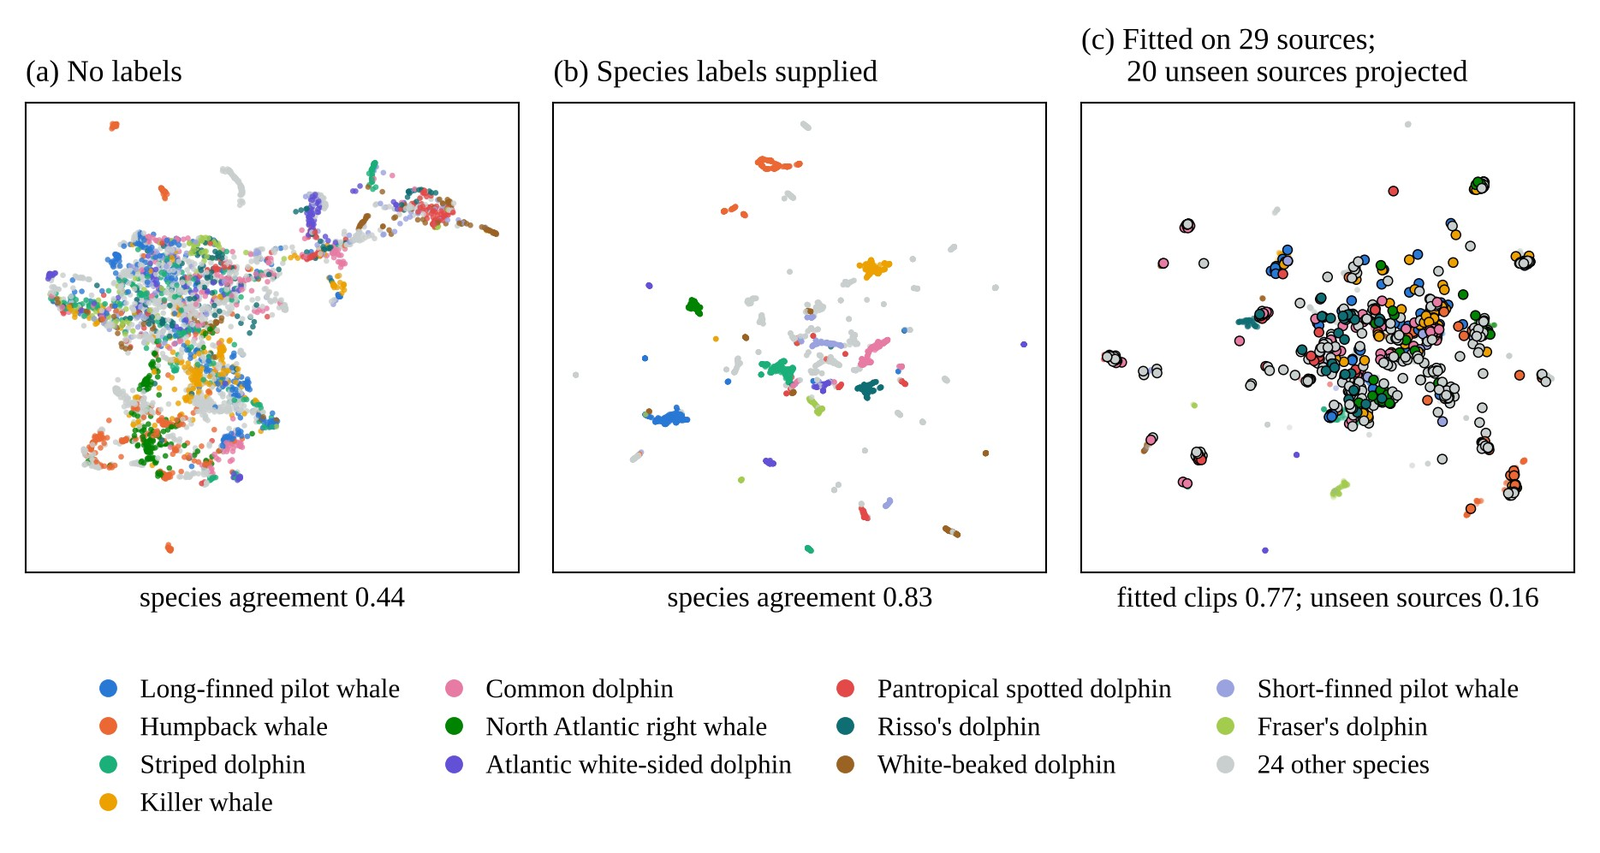
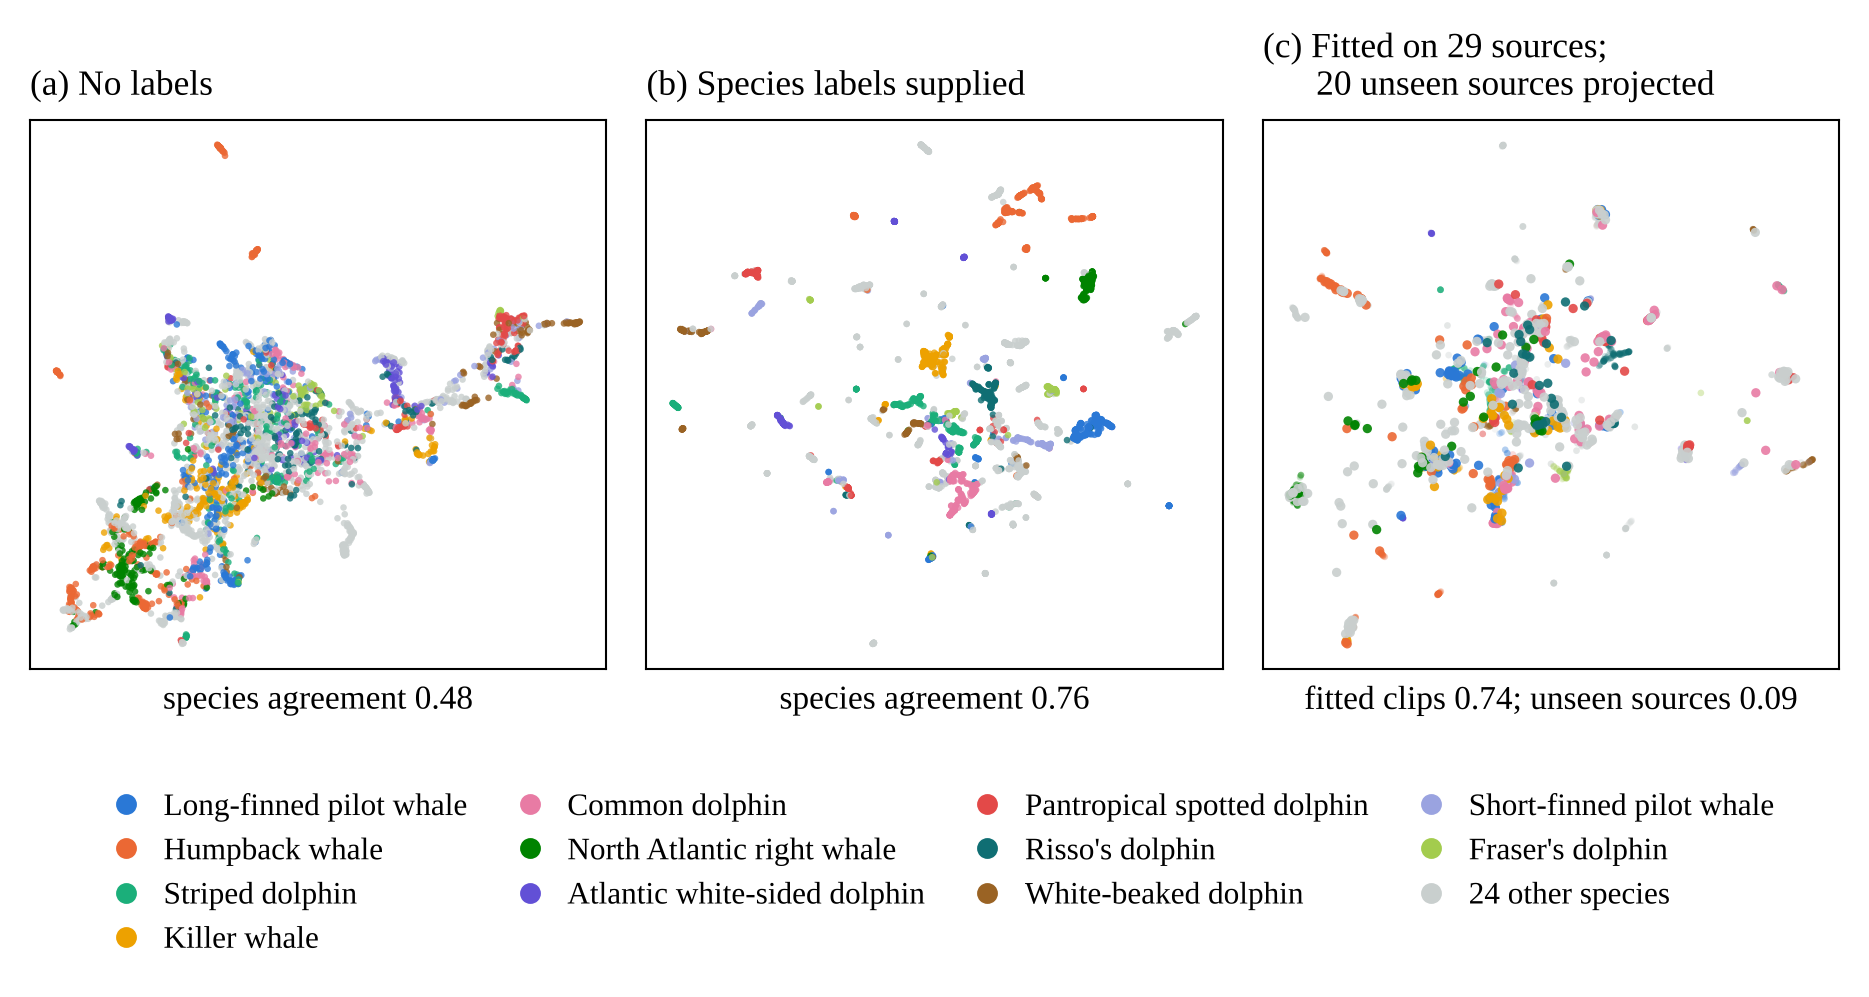
docs: redraw UMAP without marker edges and add t-SNE projection
- Coordinates for the 3,539-clip sample saved to results/projection_vggish_core3539.npz
- 04_figures/fig_projection_readme.py draws both figures
- Caption states the run differs from manuscript Figure 4 and lists both value sets

diff --git a/04_figures/fig_projection_readme.py b/04_figures/fig_projection_readme.py
@@ -1,0 +1,89 @@
+#!/usr/bin/env python3
+"""README projection figures for VGGish vectors: UMAP (3 panels) and t-SNE (2 panels).
+
+Input: results/projection_vggish_core3539.npz — 2-D coordinates (uint16) and labels for the
+3,539-clip sample, taken from the screening dashboard run (03_web, Watkins 스크리닝 결과집).
+Same design as manuscript Figure 4 (29 fitted / 20 unseen recording sources) but a separate
+run, so the agreement values differ slightly from the manuscript.
+Agreement = balanced accuracy of a 15-nearest-neighbour vote in the 2-D map (build_maps.knn_ba).
+
+Usage: python 04_figures/fig_projection_readme.py
+"""
+from pathlib import Path
+import json
+
+import numpy as np
+import pandas as pd
+import matplotlib
+matplotlib.use("Agg")
+import matplotlib.pyplot as plt
+from matplotlib.lines import Line2D
+
+ROOT = Path(__file__).resolve().parents[1]
+OUT = ROOT / "docs" / "figures"
+plt.rcParams.update({"font.family": "serif", "font.serif": ["Times New Roman", "Liberation Serif", "DejaVu Serif"],
+                     "font.size": 9, "axes.linewidth": 0.5, "savefig.dpi": 300, "legend.frameon": False,
+                     "mathtext.fontset": "stix"})
+W = 6.3
+PAL = ["#2a78d6", "#eb6834", "#1baf7a", "#eda100", "#e87ba4", "#008300", "#6250d6", "#e34948",
+       "#0f6e73", "#9a6324", "#9aa3e0", "#a3cc4e"]          # manuscript Figure 4 palette
+OTHER = "#c9cfce"
+TAXON = {"Odontoceti": ("Odontocetes", "#bdbdbd"), "Mysticeti": ("Mysticetes", "#1a1a1a"), "Pinnipedia": ("Pinnipeds", "#e34948")}
+
+z = np.load(ROOT / "results/projection_vggish_core3539.npz")
+score = json.loads(str(z["score_json"]))
+sp, tx, split = z["species"], z["taxon"], z["split"]
+top = pd.Series(sp).value_counts().index[:12].tolist()
+col = np.array([OTHER] * len(sp), dtype=object)
+for i, s in enumerate(top):
+    col[sp == s] = PAL[i]
+order = np.random.default_rng(0).permutation(len(sp))
+
+
+def xy(key):
+    return z[key].astype(float) / 65535
+
+
+def frame(a, title, sub):
+    a.set_xticks([]); a.set_yticks([])
+    a.set_title(title, fontsize=8.5, loc="left")
+    a.set_xlabel(sub, fontsize=8)
+    for s in a.spines.values():
+        s.set_visible(True); s.set_linewidth(0.5)
+
+
+def species_legend(fig, y):
+    n_other = len(set(sp)) - len(top)
+    fig.legend([Line2D([], [], marker="o", color=c, ls="", ms=4) for c in PAL[:len(top)]] + [Line2D([], [], marker="o", color=OTHER, ls="", ms=4)],
+               top + [f"{n_other} other species"], ncol=4, loc="upper center", bbox_to_anchor=(0.5, y),
+               fontsize=7.5, columnspacing=1.0, handletextpad=0.2)
+
+
+# UMAP: unsupervised, species-supervised, fitted on development sources + unseen sources projected
+fig, ax = plt.subplots(1, 3, figsize=(W, 2.75))
+P = xy("umap"); ax[0].scatter(P[order, 0], P[order, 1], s=2.5, c=list(col[order]), alpha=0.8, linewidths=0, rasterized=True)
+frame(ax[0], "(a) No labels", f"species agreement {score['umap']['species']:.2f}")
+P = xy("umap_sup"); ax[1].scatter(P[order, 0], P[order, 1], s=2.5, c=list(col[order]), alpha=0.8, linewidths=0, rasterized=True)
+frame(ax[1], "(b) Species labels supplied", f"species agreement {score['umap_sup']['species']:.2f}")
+P = xy("umap_sup_dev"); tr = np.where(split == "dev")[0]; te = np.where(split == "test")[0]
+ax[2].scatter(P[tr, 0], P[tr, 1], s=2.5, c=list(col[tr]), alpha=0.2, linewidths=0, rasterized=True)
+ax[2].scatter(P[te, 0], P[te, 1], s=5, c=list(col[te]), alpha=0.9, linewidths=0, rasterized=True)
+n_tr, n_te = len(set(z["source"][tr])), len(set(z["source"][te]))
+frame(ax[2], f"(c) Fitted on {n_tr} sources;\n      {n_te} unseen sources projected",
+      f"fitted clips {score['umap_sup_dev']['dev_species']:.2f}; unseen sources {score['umap_sup_dev']['test_species']:.2f}")
+species_legend(fig, 0.06)
+fig.tight_layout(rect=(0, 0.07, 1, 1)); fig.savefig(OUT / "fig4_umap.png", bbox_inches="tight", facecolor="white"); plt.close(fig)
+
+# t-SNE: unsupervised only (no label-supervised variant, no projection of unseen data)
+P = xy("tsne")
+fig, ax = plt.subplots(1, 2, figsize=(W * 0.8, 3.0))
+ax[0].scatter(P[order, 0], P[order, 1], s=2.5, c=list(col[order]), alpha=0.8, linewidths=0, rasterized=True)
+frame(ax[0], "(a) Coloured by species", f"species agreement {score['tsne']['species']:.2f}")
+tcol = np.array([TAXON[t][1] for t in tx], dtype=object)
+ax[1].scatter(P[order, 0], P[order, 1], s=2.5, c=list(tcol[order]), alpha=0.6, linewidths=0, rasterized=True)
+frame(ax[1], "(b) Coloured by taxon", f"taxon agreement {score['tsne']['taxon']:.2f}")
+ax[1].legend([Line2D([], [], marker="o", color=c, ls="", ms=4) for _, c in TAXON.values()], [n for n, _ in TAXON.values()],
+             loc="upper center", bbox_to_anchor=(0.5, -0.09), ncol=3, fontsize=7.5, handletextpad=0.2, columnspacing=0.8)
+species_legend(fig, 0.06)
+fig.tight_layout(rect=(0, 0.1, 1, 1)); fig.savefig(OUT / "fig4b_tsne.png", bbox_inches="tight", facecolor="white"); plt.close(fig)
+print("wrote fig4_umap.png, fig4b_tsne.png")
